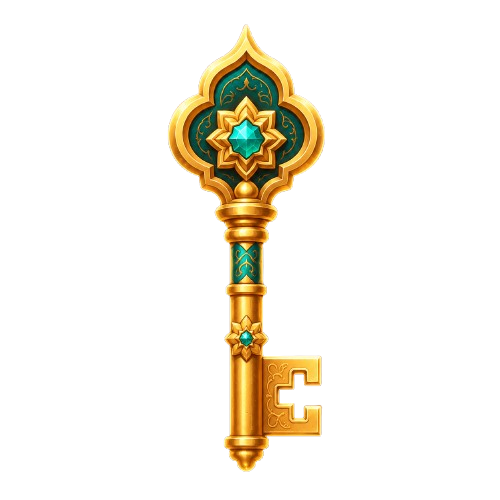
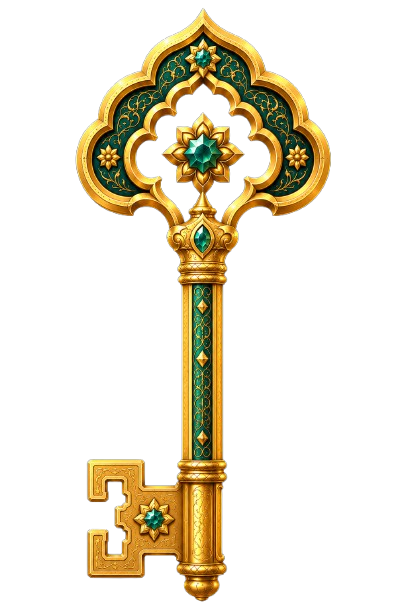
update game layout

Changed region(s): [[0.1765, 0.0, 0.8235, 0.99]]

diff --git a/src/styles.css b/src/styles.css
@@ -2390,3 +2390,93 @@ button {
     transform: translate(-50%, -58%) scale(0.65);
   }
 }
+
+/* === توافق صفحة تسجيل الدخول مع الجوال === */
+@media (max-width: 760px) {
+  .auth-screen {
+    padding: 0.5rem;
+    /* توسيط النموذج عمودياً في منتصف الشاشة */
+    align-items: center;
+  }
+
+  .auth-shell {
+    min-height: auto;
+    /* تحويل التخطيط الجانبي إلى عمودي */
+    grid-template-columns: 1fr;
+    border-radius: 1.4rem;
+    overflow: hidden;
+  }
+
+  /* إخفاء الجزء الجانبي (Hero) على الجوال لأن النموذج هو الأهم */
+  .auth-hero {
+    display: none;
+  }
+
+  /* جعل النموذج يأخذ كامل المساحة */
+  .auth-panel {
+    padding: 2rem 1.5rem;
+    text-align: center;
+  }
+
+  .auth-panel-head h2 {
+    font-size: 1.5rem;
+    margin-bottom: 0.25rem;
+  }
+
+  .auth-panel-head p {
+    font-size: 0.85rem;
+    margin-bottom: 1.5rem;
+    opacity: 0.8;
+  }
+
+  .auth-form {
+    gap: 1rem;
+  }
+
+  .auth-form label {
+    font-size: 0.9rem;
+  }
+
+  .auth-form input {
+    min-height: 3.4rem;
+    font-size: 1rem;
+    border-radius: 1.2rem;
+    padding: 0.9rem 1.2rem;
+  }
+
+  .auth-submit {
+    min-height: 3.4rem;
+    font-size: 1.1rem;
+    border-radius: 1.2rem;
+    margin-top: 0.5rem;
+  }
+
+  .auth-switch {
+    margin-top: 0.5rem;
+    font-size: 0.9rem;
+    padding: 0.5rem;
+  }
+
+  .auth-error {
+    font-size: 0.85rem;
+    min-height: 1.2rem;
+    margin-top: 0.5rem;
+  }
+}
+
+@media (max-width: 400px) {
+  .auth-screen {
+    padding: 0;
+    align-items: stretch;
+  }
+
+  .auth-shell {
+    border-radius: 0;
+    min-height: 100dvh;
+  }
+
+  .auth-panel {
+    padding: 1.5rem 1.2rem;
+    justify-content: center;
+  }
+}

diff --git a/src/game/game.js b/src/game/game.js
@@ -1754,17 +1754,19 @@ function renderMap(stats) {
     const completed = completedSet();
     return content.doors
       .map((door, index) => {
-const pos = getNodePosition(index, content.doors.length, door.id);
+        const pos = getNodePosition(index, content.doors.length, door.id);
         const isCompleted = completed.has(door.id);
         const unlocked = isDoorUnlocked(index);
         const selected = selectedDoorId === door.id && !selectedObstacleId;
-        const src = isCompleted || unlocked ? assetUrls.OPEN_DOOR : assetUrls.LOCKED_DOOR;
+        const src = isCompleted ? assetUrls.OPEN_DOOR : assetUrls.LOCKED_DOOR;
         const className = ["map-node", isCompleted ? "is-complete" : "", unlocked ? "is-unlocked" : "is-locked", selected ? "is-selected" : ""].join(" ");
+        
         return `
           <button class="${className}" style="--x:${pos.x}%;--y:${pos.y}%" data-action="select-door" data-id="${escapeHtml(door.id)}" aria-label="${escapeHtml(door.title)}">
             <img src="${src}" alt="" draggable="false" />
             <span class="node-number">${index + 1}</span>
             <b>${escapeHtml(door.title.replace("باب ", ""))}</b>
+            ${isCompleted ? '<span class="node-done-icon"></span>' : ''}
           </button>
         `;
       })
